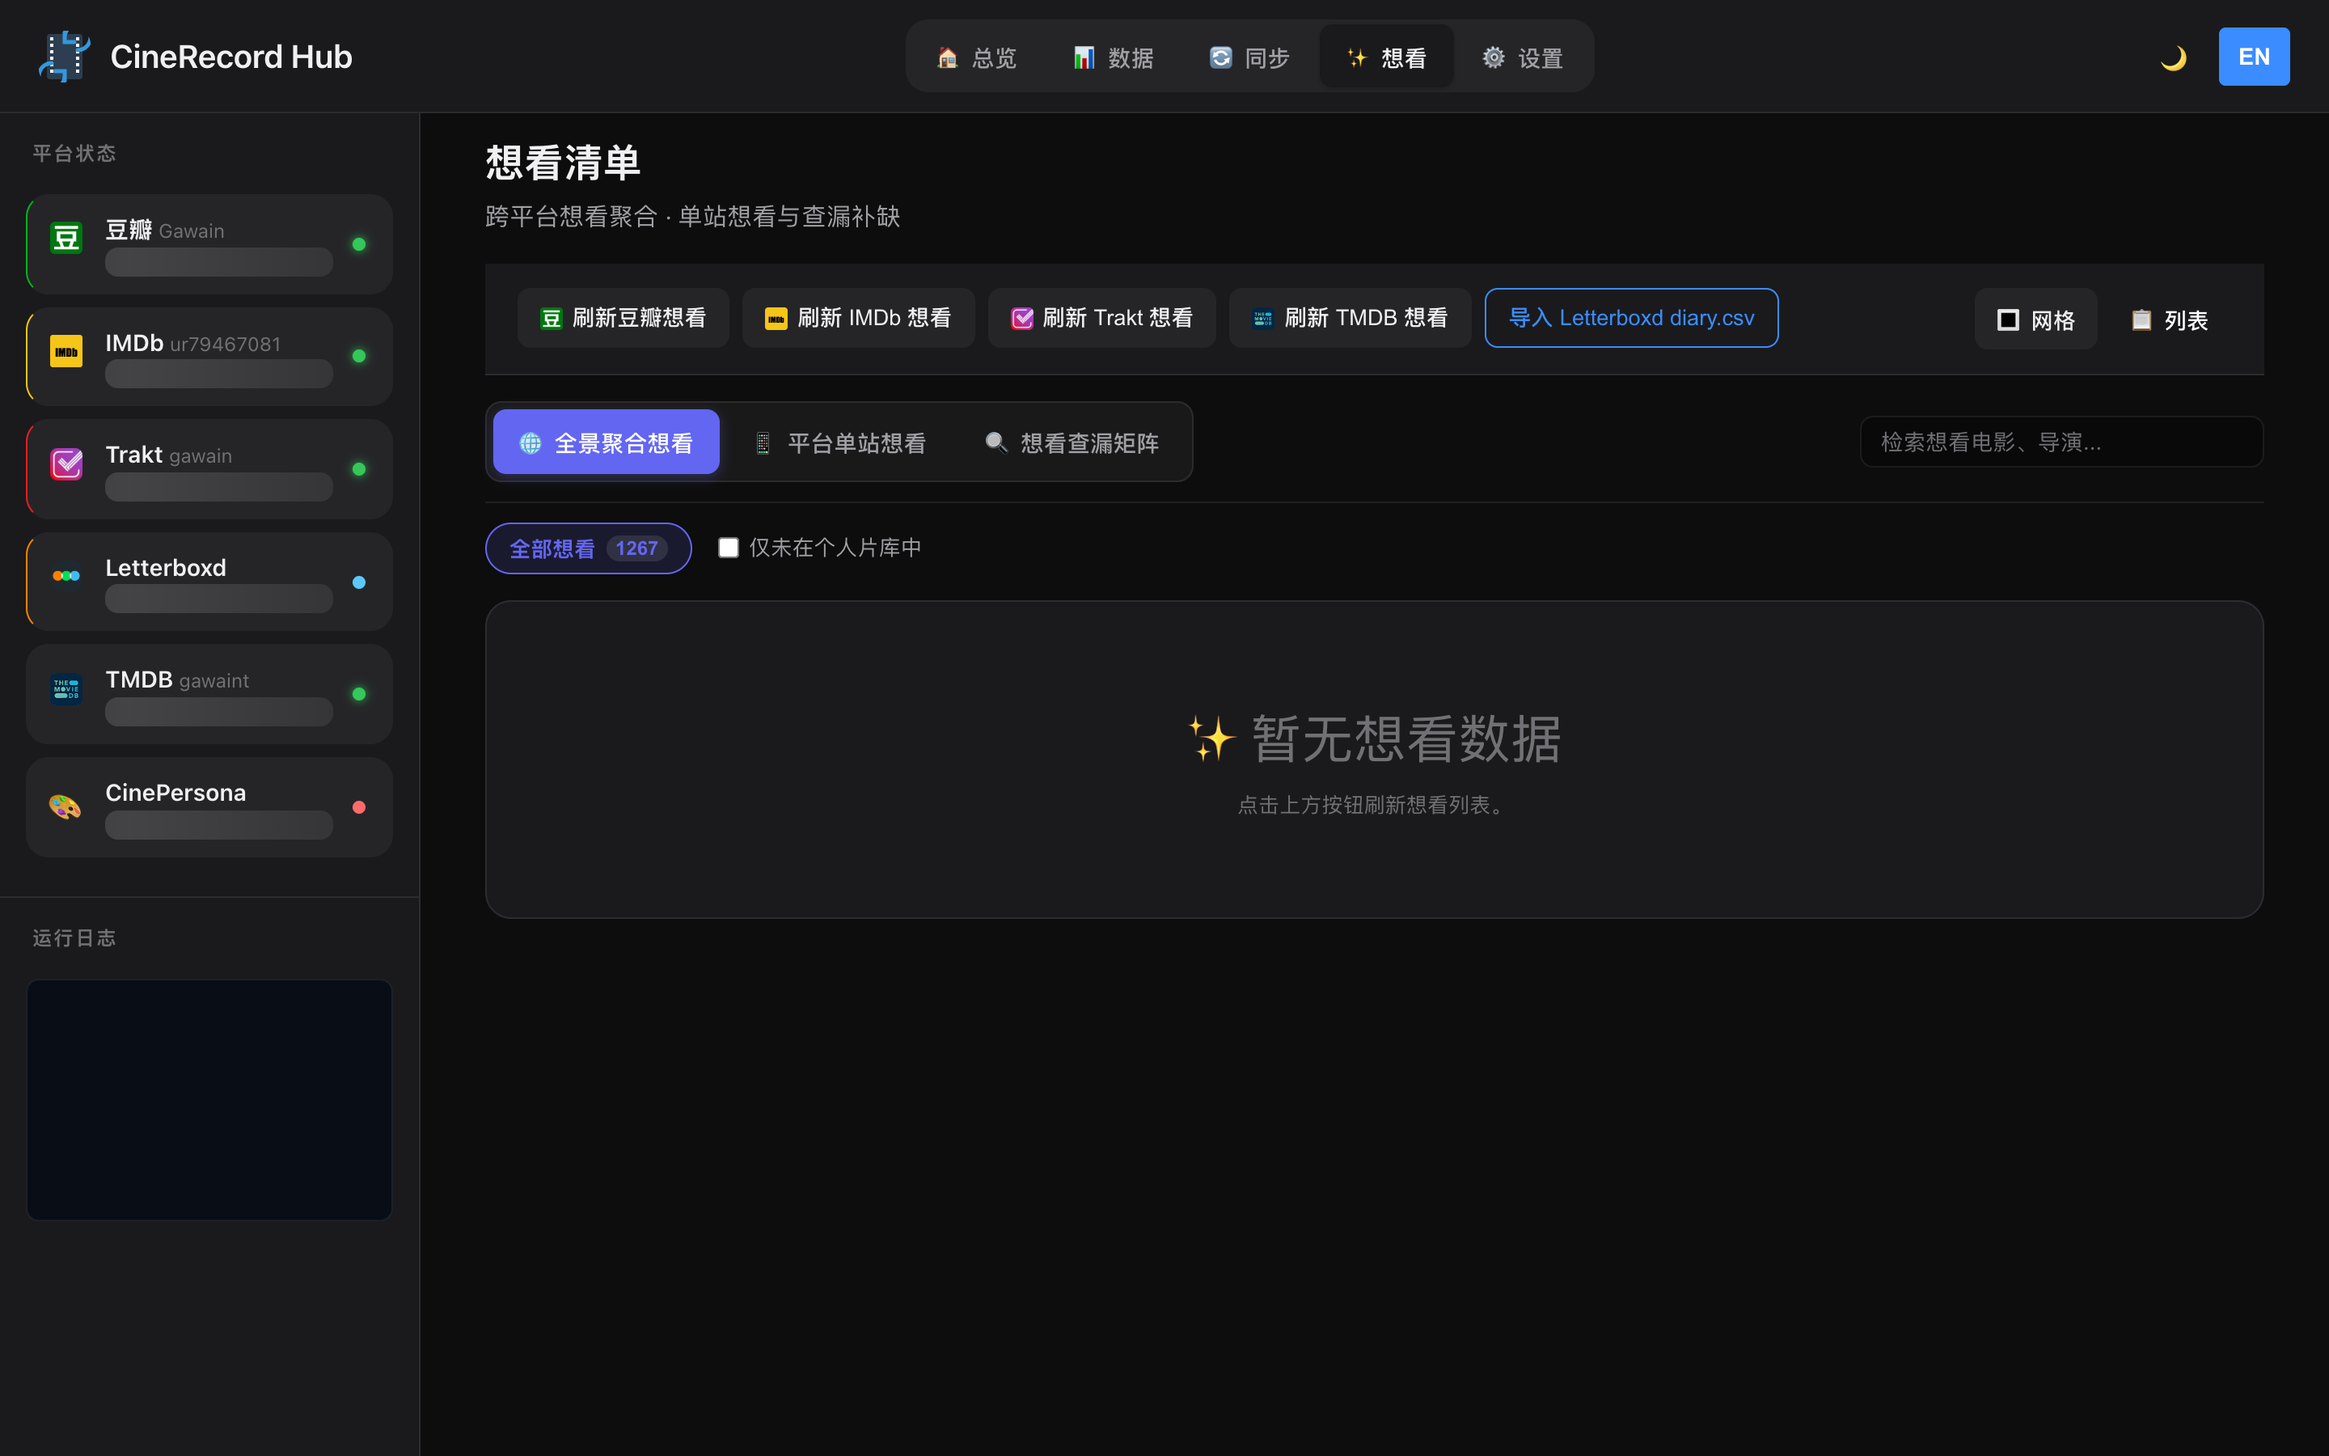
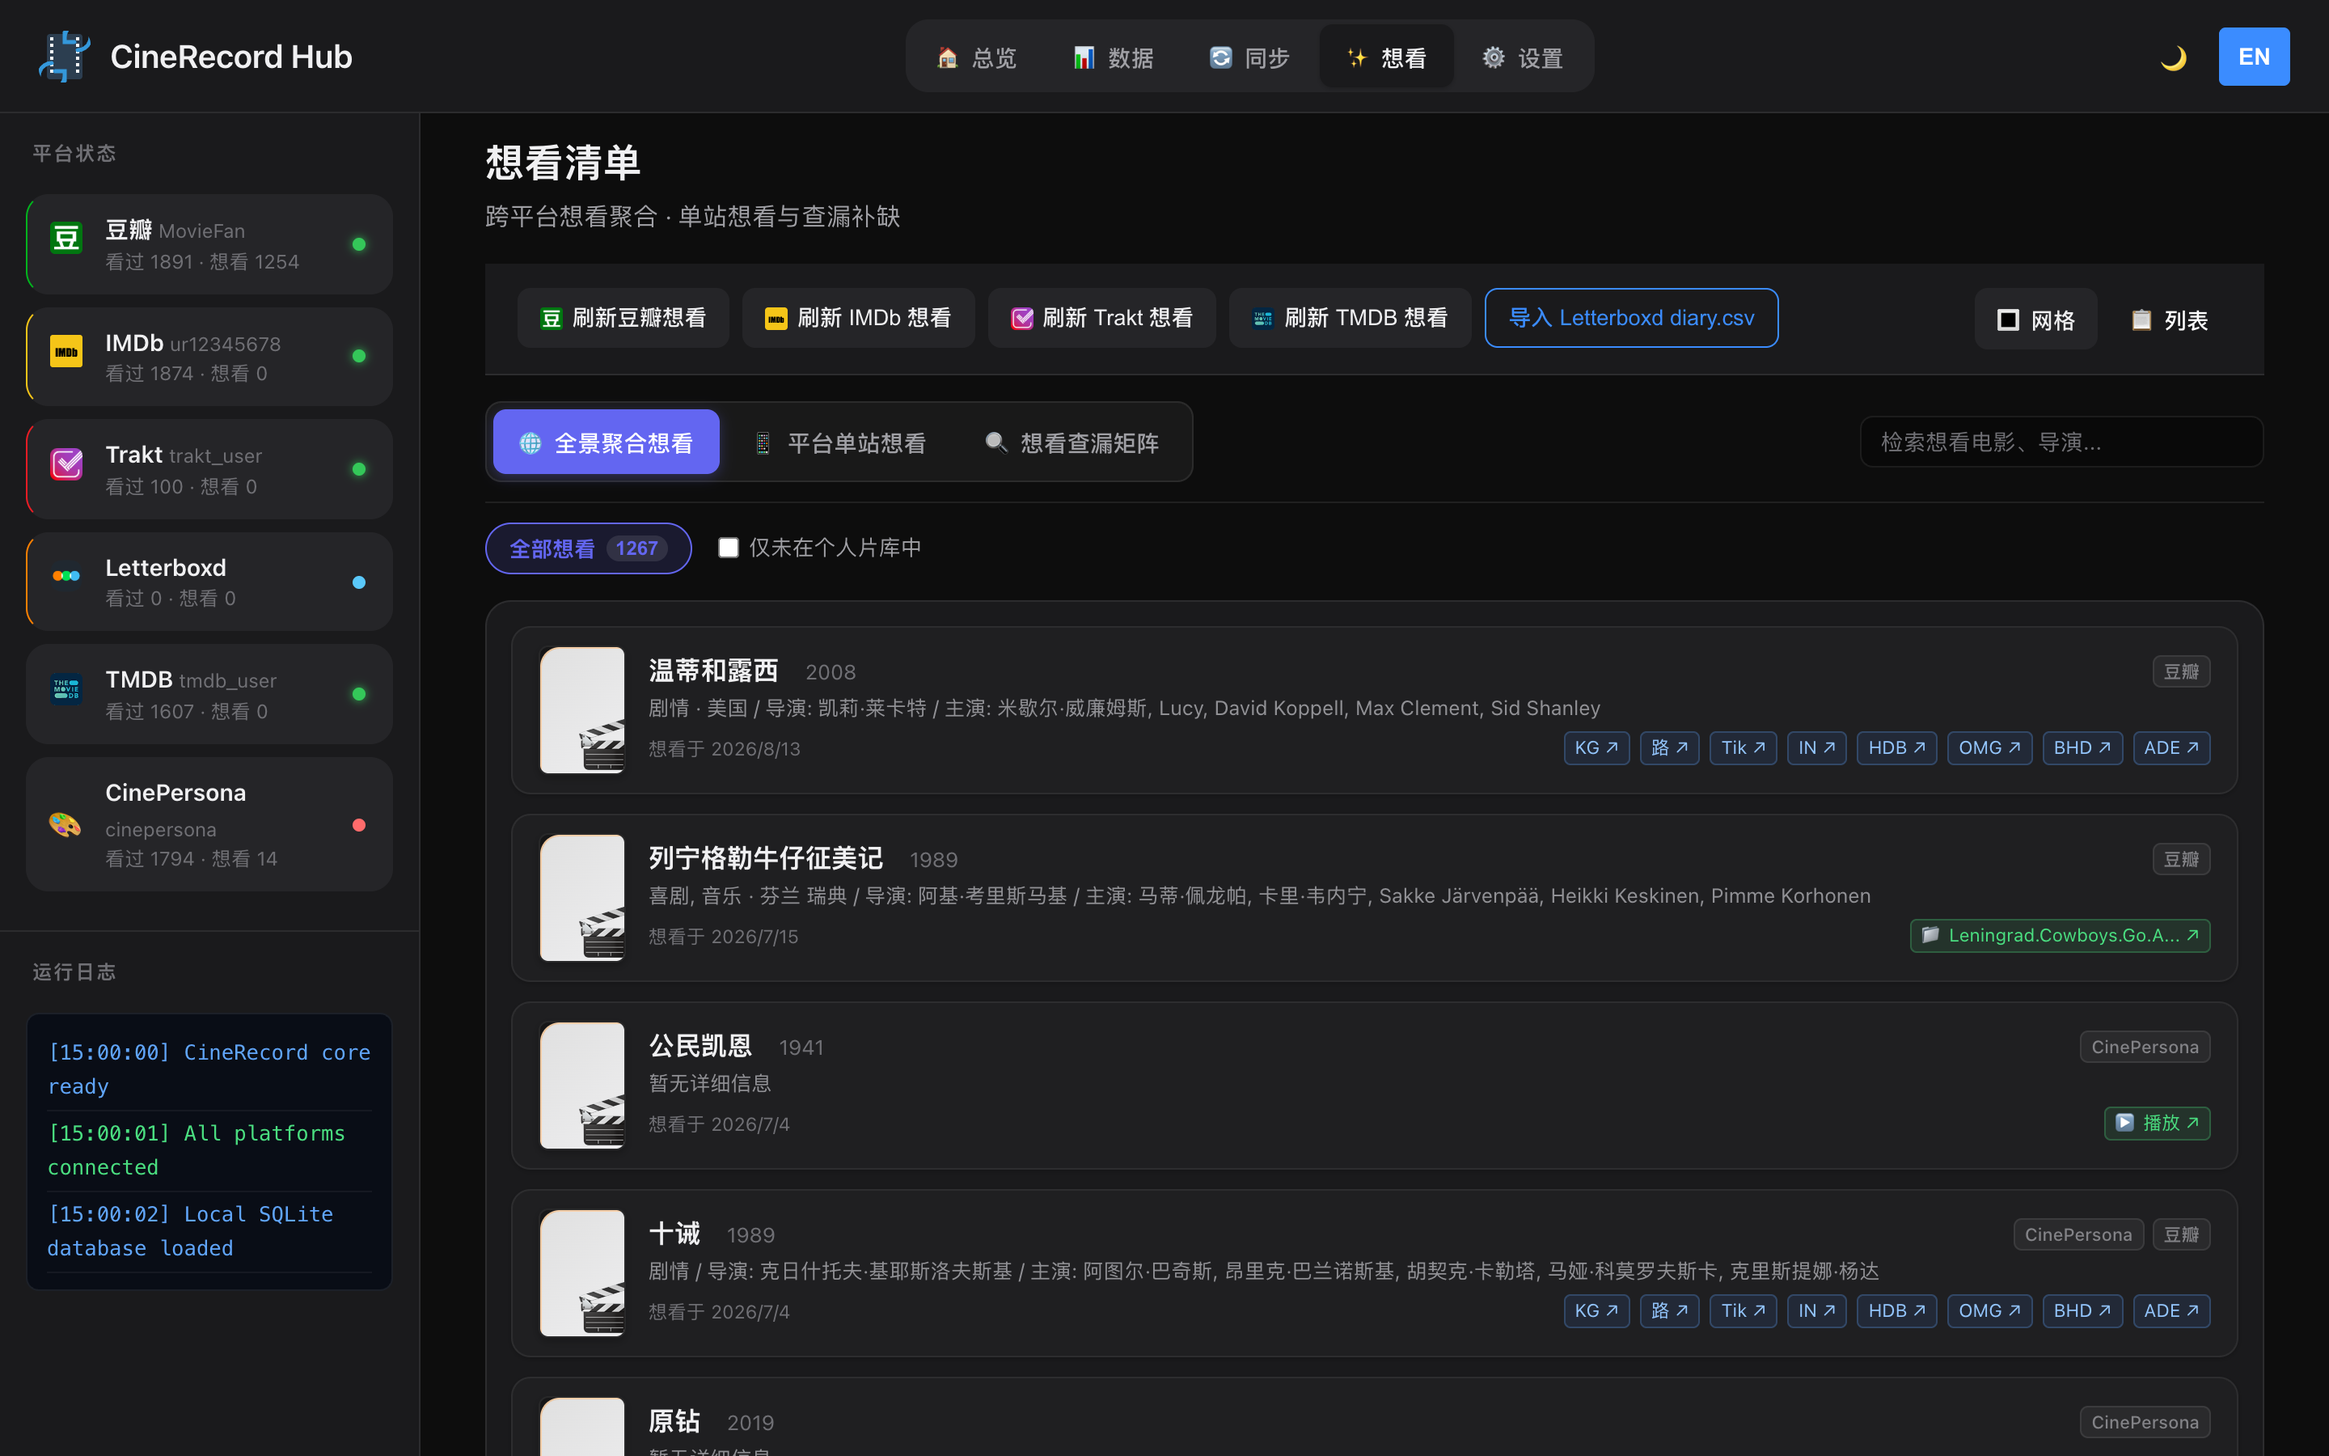
docs: sanitize personal data in screenshots, add settings preview and complete wishlist i18n

diff --git a/scripts/capture_screenshots.js b/scripts/capture_screenshots.js
@@ -2,7 +2,8 @@
 
 /**
  * Automated Screenshot Generator for CineRecord
- * Captures high-resolution Retina screenshots for documentation in both Chinese and English.
+ * Captures high-resolution Retina screenshots for documentation in both Chinese and English
+ * with full anonymization and privacy protection.
  */
 
 const fs = require('fs');
@@ -25,6 +26,66 @@ async function isServerRunning(url) {
 
 async function wait(ms) {
     return new Promise((resolve) => setTimeout(resolve, ms));
+}
+
+async function anonymize(page) {
+    await page.evaluate(() => {
+        // 1. Sidebar Accounts
+        const doubanUser = document.getElementById('summary-id-douban') || document.querySelector('#summary-douban .summary-id');
+        if (doubanUser) doubanUser.textContent = 'MovieFan';
+        const imdbUser = document.getElementById('summary-id-imdb') || document.querySelector('#summary-imdb .summary-id');
+        if (imdbUser) imdbUser.textContent = 'ur12345678';
+        const traktUser = document.getElementById('summary-id-trakt') || document.querySelector('#summary-trakt .summary-id');
+        if (traktUser) traktUser.textContent = 'trakt_user';
+        const tmdbUser = document.getElementById('summary-id-tmdb') || document.querySelector('#summary-tmdb .summary-id');
+        if (tmdbUser) tmdbUser.textContent = 'tmdb_user';
+        const cpUser = document.getElementById('summary-id-cinepersona') || document.querySelector('#summary-cinepersona .summary-id');
+        if (cpUser) cpUser.textContent = 'cinepersona';
+
+        // 2. Settings Account Cards
+        const doubanName = document.getElementById('douban-display-name');
+        if (doubanName) doubanName.textContent = 'MovieFan';
+        const doubanId = document.getElementById('douban-user-id-display');
+        if (doubanId) doubanId.textContent = 'moviefan';
+
+        const imdbName = document.getElementById('imdb-display-name');
+        if (imdbName) imdbName.textContent = 'IMDb User';
+        const imdbId = document.getElementById('imdb-user-id-display');
+        if (imdbId) imdbId.textContent = 'ur12345678';
+
+        const traktName = document.getElementById('trakt-display-name');
+        if (traktName) traktName.textContent = 'trakt_user';
+        const traktId = document.getElementById('trakt-user-id-display');
+        if (traktId) traktId.textContent = 'trakt_user';
+
+        const tmdbName = document.getElementById('tmdb-display-name');
+        if (tmdbName) tmdbName.textContent = 'tmdb_user';
+        const tmdbId = document.getElementById('tmdb-user-id-display');
+        if (tmdbId) tmdbId.textContent = '12345678';
+
+        // 3. Settings Inputs & Sensitive fields
+        const mediaServerUrl = document.getElementById('media-server-url-input');
+        if (mediaServerUrl) mediaServerUrl.value = 'http://192.168.1.100:8096';
+        const mediaServerKey = document.getElementById('media-server-key-input');
+        if (mediaServerKey) mediaServerKey.value = '••••••••••••••••••••••••••••••••';
+
+        const ccHost = document.getElementById('cookiecloud-host-input');
+        if (ccHost) ccHost.value = 'https://cookiecloud.example.com';
+        const ccKey = document.getElementById('cookiecloud-key-input');
+        if (ccKey) ccKey.value = '••••••••••••••••';
+        const ccPass = document.getElementById('cookiecloud-password-input');
+        if (ccPass) ccPass.value = '••••••••••••••••';
+
+        // 4. Sidebar & Terminal Logs Sanitization
+        const logContainer = document.querySelector('.log-container-sidebar');
+        if (logContainer) {
+            logContainer.innerHTML = '<p class="info">[15:00:00] CineRecord core ready</p><p class="success">[15:00:01] All platforms connected</p><p class="info">[15:00:02] Local SQLite database loaded</p>';
+        }
+        const syncTerminal = document.querySelector('.sync-terminal');
+        if (syncTerminal) {
+            syncTerminal.innerHTML = '<p class="info">[15:05:00] 🚀 Generating sync preview...</p><p class="success">[15:05:01] ✅ Diff preview ready: 1874 items examined</p><p class="success">[15:05:02] ✅ All candidate records analyzed</p>';
+        }
+    });
 }
 
 async function capture() {
@@ -111,6 +172,7 @@ async function capture() {
             if (typeof openTab === 'function') openTab('dashboard');
         });
         await wait(1000);
+        await anonymize(page);
         const dashPath = path.join(OUTPUT_DIR, `dashboard_${lang.suffix}.png`);
         await page.screenshot({ path: dashPath });
         console.log(`     Saved: ${dashPath}`);
@@ -121,6 +183,7 @@ async function capture() {
             if (typeof openTab === 'function') openTab('data');
         });
         await wait(1200);
+        await anonymize(page);
         const libPath = path.join(OUTPUT_DIR, `library_${lang.suffix}.png`);
         await page.screenshot({ path: libPath });
         console.log(`     Saved: ${libPath}`);
@@ -131,6 +194,7 @@ async function capture() {
             if (typeof openTab === 'function') openTab('wishlist');
         });
         await wait(1200);
+        await anonymize(page);
         const wishPath = path.join(OUTPUT_DIR, `wishlist_${lang.suffix}.png`);
         await page.screenshot({ path: wishPath });
         console.log(`     Saved: ${wishPath}`);
@@ -143,14 +207,26 @@ async function capture() {
             if (previewBtn) previewBtn.click();
         });
         await wait(2500);
+        await anonymize(page);
         const syncPath = path.join(OUTPUT_DIR, `sync_${lang.suffix}.png`);
         await page.screenshot({ path: syncPath });
         console.log(`     Saved: ${syncPath}`);
+
+        // 5. Settings Tab
+        console.log('  -> Settings');
+        await page.evaluate(() => {
+            if (typeof openTab === 'function') openTab('settings');
+        });
+        await wait(1200);
+        await anonymize(page);
+        const settingsPath = path.join(OUTPUT_DIR, `settings_${lang.suffix}.png`);
+        await page.screenshot({ path: settingsPath });
+        console.log(`     Saved: ${settingsPath}`);
     }
 
     await browser.close();
 
-    console.log('\n✨ All screenshots captured successfully in docs/images/!\n');
+    console.log('\n✨ All sanitized screenshots captured successfully in docs/images/!\n');
 }
 
 capture().catch((err) => {

diff --git a/web/static/i18n.js b/web/static/i18n.js
@@ -653,6 +653,23 @@ const i18n = {
             if (headerTitleMap[text]) h2.textContent = headerTitleMap[text];
         });
 
+        const subtitleMap = {
+            '跨平台聚合总览 · 核心数据与最近同步': isEn ? 'Cross-platform aggregated overview & recent syncs' : '跨平台聚合总览 · 核心数据与最近同步',
+            'Cross-platform aggregated overview & recent syncs': isEn ? 'Cross-platform aggregated overview & recent syncs' : '跨平台聚合总览 · 核心数据与最近同步',
+            '跨平台统一视图，自动按电影去重': isEn ? 'Unified cross-platform view with deduplication' : '跨平台统一视图，自动按电影去重',
+            'Unified cross-platform view with deduplication': isEn ? 'Unified cross-platform view with deduplication' : '跨平台统一视图，自动按电影去重',
+            '跨平台想看聚合 · 单站想看与查漏补缺': isEn ? 'Cross-platform wishlist aggregation & diff matrix' : '跨平台想看聚合 · 单站想看与查漏补缺',
+            'Cross-platform wishlist aggregation & diff matrix': isEn ? 'Cross-platform wishlist aggregation & diff matrix' : '跨平台想看聚合 · 单站想看与查漏补缺',
+            '跨平台影视评分实时同步与定时任务调度': isEn ? 'Real-time rating sync & scheduled task scheduler' : '跨平台影视评分实时同步与定时任务调度',
+            'Real-time rating sync & scheduled task scheduler': isEn ? 'Real-time rating sync & scheduled task scheduler' : '跨平台影视评分实时同步与定时任务调度',
+            '账户连接、备份与系统设置': isEn ? 'Account connections, backups & system configuration' : '账户连接、备份与系统设置',
+            'Account connections, backups & system configuration': isEn ? 'Account connections, backups & system configuration' : '账户连接、备份与系统设置'
+        };
+        document.querySelectorAll('.content-header p').forEach(p => {
+            const text = p.textContent.trim();
+            if (subtitleMap[text]) p.textContent = subtitleMap[text];
+        });
+
         // 8. Search Input Placeholders
         const libSearch = document.getElementById('library-search-input');
         if (libSearch) libSearch.placeholder = isEn ? 'Search movie, director, actor...' : '检索电影、导演、演员...';
@@ -669,15 +686,53 @@ const i18n = {
         const clearSync = document.getElementById('clear-sync-btn');
         if (clearSync) clearSync.textContent = isEn ? 'Clear' : '清空';
 
-        // 10. Wishlist Refresh Buttons
+        // 10. Wishlist Refresh Buttons & Mode Buttons
         const refreshDoubanWish = document.getElementById('refresh-wishlist-douban-btn');
-        if (refreshDoubanWish) refreshDoubanWish.innerHTML = `豆瓣 ${isEn ? 'Refresh Wishlist' : '刷新想看'}`;
+        if (refreshDoubanWish) refreshDoubanWish.innerHTML = `豆瓣 ${isEn ? 'Refresh' : '刷新想看'}`;
         const refreshImdbWish = document.getElementById('refresh-wishlist-imdb-btn');
-        if (refreshImdbWish) refreshImdbWish.innerHTML = `IMDb ${isEn ? 'Refresh Wishlist' : '刷新想看'}`;
+        if (refreshImdbWish) refreshImdbWish.innerHTML = `IMDb ${isEn ? 'Refresh' : '刷新想看'}`;
         const refreshTraktWish = document.getElementById('refresh-wishlist-trakt-btn');
-        if (refreshTraktWish) refreshTraktWish.innerHTML = `Trakt ${isEn ? 'Refresh Wishlist' : '刷新想看'}`;
+        if (refreshTraktWish) refreshTraktWish.innerHTML = `Trakt ${isEn ? 'Refresh' : '刷新想看'}`;
         const refreshTmdbWish = document.getElementById('refresh-wishlist-tmdb-btn');
-        if (refreshTmdbWish) refreshTmdbWish.innerHTML = `TMDB ${isEn ? 'Refresh Wishlist' : '刷新想看'}`;
+        if (refreshTmdbWish) refreshTmdbWish.innerHTML = `TMDB ${isEn ? 'Refresh' : '刷新想看'}`;
+        const importLetterboxdWish = document.getElementById('import-letterboxd-wishlist-btn');
+        if (importLetterboxdWish) importLetterboxdWish.innerHTML = isEn ? 'Import Letterboxd CSV' : '导入 Letterboxd diary.csv';
+
+        const wishUnifiedBtn = document.querySelector('[data-wishlist-mode="unified"]');
+        if (wishUnifiedBtn) wishUnifiedBtn.innerHTML = `🌐 ${isEn ? 'Unified Wishlist' : '全景聚合想看'}`;
+        const wishPlatformBtn = document.querySelector('[data-wishlist-mode="platform"]');
+        if (wishPlatformBtn) wishPlatformBtn.innerHTML = `📱 ${isEn ? 'Single Platform' : '平台单站想看'}`;
+        const wishDiffBtn = document.querySelector('[data-wishlist-mode="diff"]');
+        if (wishDiffBtn) wishDiffBtn.innerHTML = `🔍 ${isEn ? 'Wishlist Diff Matrix' : '想看查漏矩阵'}`;
+
+        const unmatchLabel = document.querySelector('.wishlist-unmatched-label');
+        if (unmatchLabel) {
+            const cb = unmatchLabel.querySelector('input');
+            unmatchLabel.innerHTML = '';
+            if (cb) unmatchLabel.appendChild(cb);
+            unmatchLabel.appendChild(document.createTextNode(isEn ? ' Only Missing from Library' : ' 仅未在个人片库中'));
+        }
+
+        // 11. Wishlist and Library Item Card Text (Added on, Director, Actors)
+        document.querySelectorAll('.movie-item, .wishlist-card').forEach(card => {
+            card.querySelectorAll('.movie-meta, .wishlist-meta').forEach(meta => {
+                if (isEn) {
+                    meta.innerHTML = meta.innerHTML
+                        .replace(/想看于/g, 'Added on')
+                        .replace(/导演:/g, 'Director:')
+                        .replace(/主演:/g, 'Actors:')
+                        .replace(/评分/g, 'Rating')
+                        .replace(/暂无详细信息/g, 'No details available');
+                } else {
+                    meta.innerHTML = meta.innerHTML
+                        .replace(/Added on/g, '想看于')
+                        .replace(/Director:/g, '导演:')
+                        .replace(/Actors:/g, '主演:')
+                        .replace(/Rating/g, '评分')
+                        .replace(/No details available/g, '暂无详细信息');
+                }
+            });
+        });
     },
 
     /**

diff --git a/README.md b/README.md
@@ -31,6 +31,11 @@ CineRecord 是一个本地优先的跨平台电影记录管理、评分同步与
 
   <img src="docs/images/wishlist_cn.png" width="800" alt="想看清单预览">
   <p><i>想看清单：聚合各源平台想看数据，支持比对媒体服务器找出未入库影片并一键检索</i></p>
+
+  <br>
+
+  <img src="docs/images/settings_cn.png" width="800" alt="设置页面预览">
+  <p><i>设置与管理：多平台账户连接、媒体服务器及备份参数配置</i></p>
 </div>
 
 ---

diff --git a/README.en.md b/README.en.md
@@ -31,6 +31,11 @@ This project is a complete full-stack rewrite of the original Python version usi
 
   <img src="docs/images/wishlist_en.png" width="800" alt="Wishlist Preview">
   <p><i>Wishlist: Cross-platform wishlist aggregation, media server matching & multi-site search</i></p>
+
+  <br>
+
+  <img src="docs/images/settings_en.png" width="800" alt="Settings Page Preview">
+  <p><i>Settings & Management: Multi-platform account setup, media server & backup configuration</i></p>
 </div>
 
 ---
